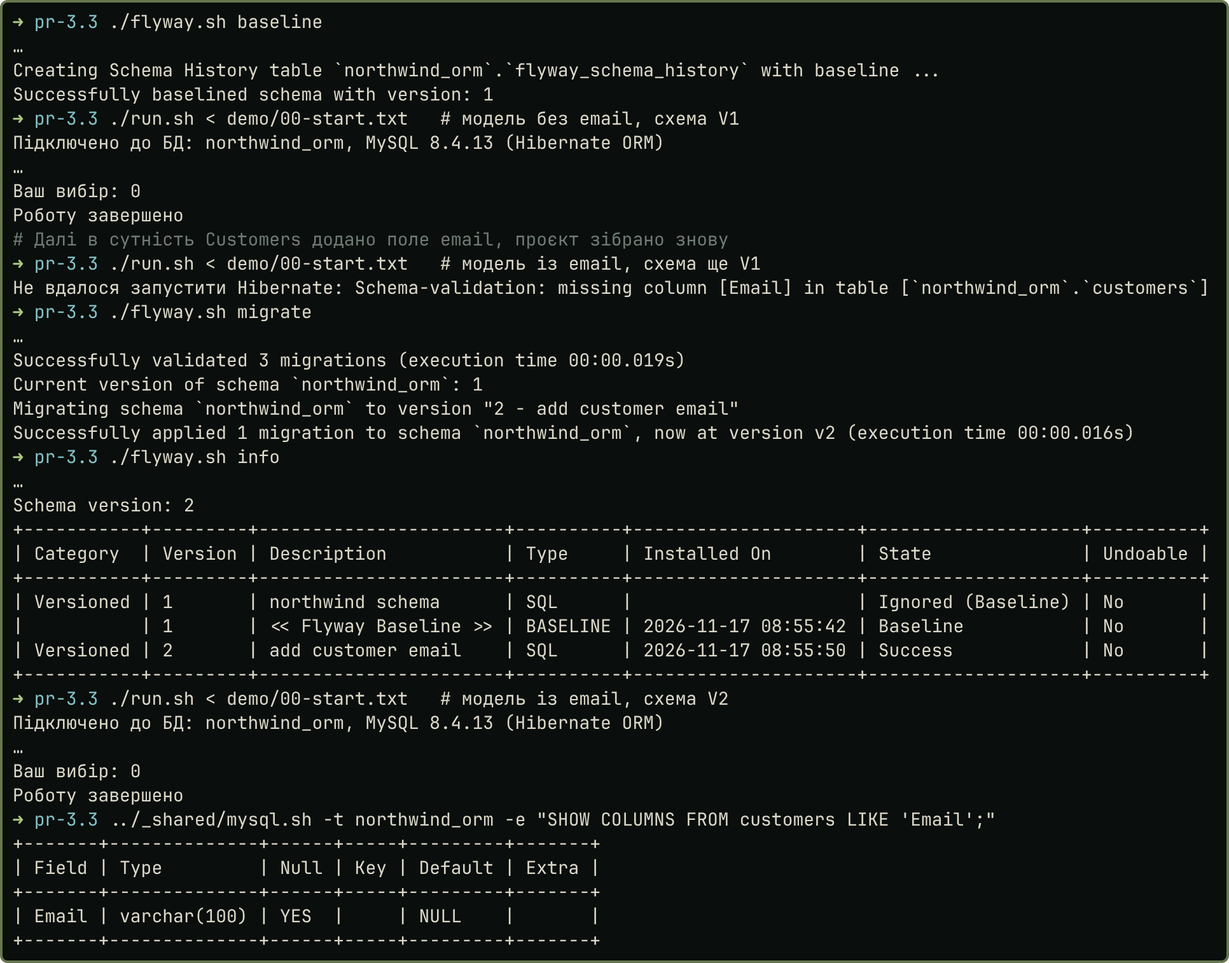
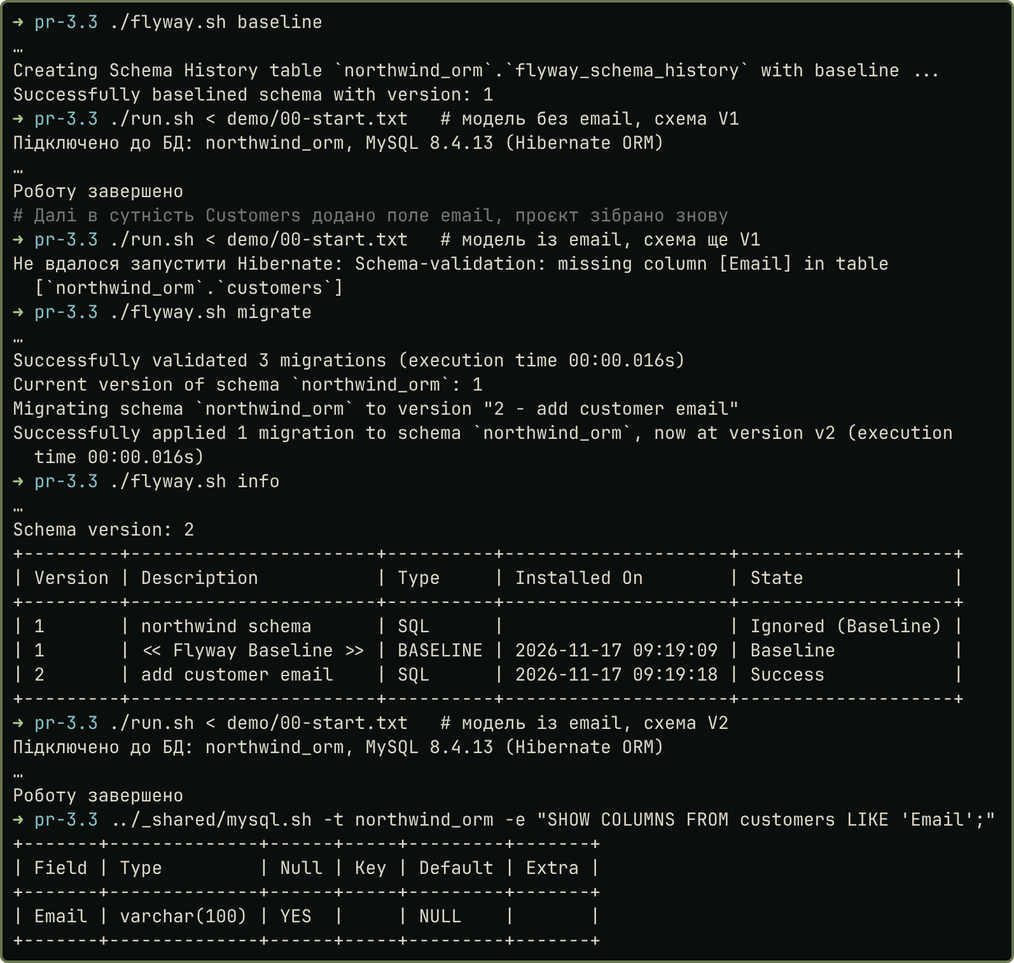
docs: number captions and improve figure readability

diff --git a/tools/report/report.css b/tools/report/report.css
@@ -60,6 +60,8 @@ figcaption { font-size: 12pt; text-align: center; margin-top: 3pt; }
 .pair img { vertical-align: top; }
 
 /* Listing and table captions: paragraph with the caption class */
+/* A plain caption paragraph directly above a table stays on the table's page. */
+p:has(+ table) { break-after: avoid; text-indent: 0; text-align: left; margin-top: 6pt; font-size: 12pt; }
 div.caption p, p.caption { text-indent: 0; font-size: 12pt; text-align: left; margin-top: 6pt; }
 
 .page-break { break-after: page; }

diff --git a/db/sr-5.3/report.md b/db/sr-5.3/report.md
@@ -22,6 +22,8 @@ city-year: "Київ – 2026"
 
 Database as a Service це керована хмарна база даних: провайдер ставить СУБД й оновлення та робить копії, а власник платить за використання й працює зі схемою та даними (джерело 1). Підключатися можна звичайним драйвером. Розподіл відповідальності:
 
+Таблиця 1 — Розподіл відповідальності в моделях DBaaS
+
 | Модель | Що надає провайдер | Що робить замовник |
 |:-----------|:------------------------------|:------------------------------------|
 | Локально | Нічого | Усе: обладнання, ОС, СУБД, оновлення, копії |
@@ -31,6 +33,8 @@ Database as a Service це керована хмарна база даних: п
 ## Аналіз документації Azure Database for MySQL
 
 Flexible Server працює на MySQL Community Edition (5.7, 8.0, 8.4). Що описує документація:
+
+Таблиця 2 — Azure Database for MySQL Flexible Server за документацією
 
 | Область | Зміст |
 |:--------------------|:--------------------------------------------------------------------------|
@@ -50,8 +54,8 @@ Flexible Server працює на MySQL Community Edition (5.7, 8.0, 8.4). Що 
 2. Відкрити доступ: правило брандмауера з адресою клієнта (public access) або сервер у VNet із застосунком у тій самій мережі чи через VPN або ExpressRoute (private access).
 3. Під адміністратором створити користувача застосунку з правами лише на `car_rental`.
 4. Завантажити `schema.sql` і `seed.sql` клієнтом mysql. У них немає `DEFINER` і `ENGINE`, тож обмеження сервісу не заважають.
-5. Взяти CA-сертифікати DigiCert Global Root G2 і Microsoft RSA Root Certificate Authority 2017, об'єднані разом. Для Java їх імпортують у сховище довіри (`keytool -import`) і задають `javax.net.ssl.trustStore` та `trustStorePassword`; документація робить це через `System.setProperty`, але властивості можна передати й ключами `-D` при запуску JVM.
-6. Задати `DB_URL`, `DB_USER`, `DB_PASSWORD`, запустити `run.sh` і перевірити шифрування командою `status` у клієнті (рядок `SSL: Cipher in use is`). Код застосунку не змінюється, бо ці значення беруться зі змінних середовища; у `run.sh` лише зникає `--network container:duikt-mysql`, а сховище довіри з п. 5 передається в JVM. Приклад Java в документації бере `sslMode=REQUIRED`; для `VERIFY_IDENTITY` у рядку має стояти саме адреса `<сервер>.mysql.database.azure.com`.
+5. Взяти CA-сертифікати DigiCert Global Root G2 і Microsoft RSA Root Certificate Authority 2017, об'єднані разом. Для Java їх імпортують у сховище довіри (`keytool -import`) і задають `javax.net.ssl.trustStore` та `trustStorePassword` (документація: `System.setProperty`; можна й ключами `-D` при запуску JVM).
+6. Задати `DB_URL`, `DB_USER`, `DB_PASSWORD`, запустити `run.sh` і перевірити шифрування командою `status` у клієнті (рядок `SSL: Cipher in use is`). Код застосунку не змінюється, бо ці значення беруться зі змінних середовища; у `run.sh` лише зникає `--network container:duikt-mysql`, а сховище довіри з п. 5 передається в JVM. Для `VERIFY_IDENTITY` у рядку має стояти саме адреса `<сервер>.mysql.database.azure.com`.
 
 ```{.small}
 # 1. сервер і база
@@ -69,15 +73,17 @@ DB_URL='jdbc:mysql://<сервер>.mysql.database.azure.com:3306/car_rental?ssl
 
 ## Перевірка TLS на локальному сервері
 
-Клієнтська частина кроків вище зводиться до `sslMode` в рядку підключення. Я перевірив її на локальному MySQL 8.4 (сертифікат створює сам контейнер): `run.sh` запущено без змін, лише з `?sslMode=REQUIRED` у `DB_URL` (рис. 1). Поки застосунок тримав з'єднання (запуск у фоні, `&`), сервер показав, що воно йде по TLS 1.3 із шифром `TLS_AES_256_GCM_SHA384`.
+Клієнтська частина кроків вище зводиться до `sslMode` у рядку підключення. Я перевірив її на локальному MySQL 8.4 (сертифікат створив контейнер): `run.sh` без змін, лише з `?sslMode=REQUIRED` у `DB_URL` (рис. 1). Поки застосунок тримав з'єднання (запуск у фоні), сервер показав TLS 1.3 і шифр `TLS_AES_256_GCM_SHA384`.
 
-![Рисунок 1 — Застосунок ПР 3.1 по TLS і шифр його з'єднання на сервері](screenshots/01-app-tls.png){width=74%}
+![Рисунок 1 — Застосунок ПР 3.1 по TLS і шифр його з'єднання на сервері](screenshots/01-app-tls.png){width=62%}
 
-На рис. 2 видно різницю з Azure. Локально `require_secure_transport` дорівнює `OFF`, тож клієнт із `--ssl-mode=DISABLED` працює без шифрування (`Ssl_cipher` порожній), а Azure вимагає TLS за замовчуванням. З `sslMode=VERIFY_IDENTITY` застосунок не підключився: від успішного запуску це відрізняється лише режимом, отже причина в перевірці сертифіката, для якої JVM потрібен довірений CA-сертифікат сервера (для Azure це сертифікати з кроку 5).
+На рис. 2 видно різницю з Azure. Локально `require_secure_transport` дорівнює `OFF`, тож клієнт із `--ssl-mode=DISABLED` працює без шифрування (`Ssl_cipher` порожній), а Azure вимагає TLS. З `sslMode=VERIFY_IDENTITY` застосунок не підключився; відмінність лише в режимі, тож причина в перевірці сертифіката: JVM потрібен CA-сертифікат сервера (для Azure з кроку 5).
 
-![Рисунок 2 — Вимога TLS на сервері, клієнт без шифрування, відмова VERIFY_IDENTITY](screenshots/02-ssl-modes.png){width=74%}
+![Рисунок 2 — Вимога TLS, клієнт без шифрування, відмова VERIFY_IDENTITY](screenshots/02-ssl-modes.png){width=58%}
 
 ## Відмінності від локального розгортання
+
+Таблиця 3 — Локальне розгортання і Azure Database for MySQL
 
 | Аспект | Локально (MySQL 8.4) | Azure Database for MySQL |
 |:----------------|:--------------------------|:-------------------------------------|
@@ -94,9 +100,9 @@ DB_URL='jdbc:mysql://<сервер>.mysql.database.azure.com:3306/car_rental?ssl
 
 ## Висновки
 
-Я розібрав поняття DBaaS і порівняв його з IaaS: у DBaaS провайдер бере на себе ОС, СУБД, оновлення й копії, а замовнику лишаються схема, дані та права. Azure Database for MySQL Flexible Server працює на MySQL Community Edition, тому застосунок підключається до нього тим самим драйвером. Підключення зводиться до сервера, брандмауера або приватної мережі, користувача з правами на `car_rental`, завантаження `schema.sql` із `seed.sql` та CA-сертифікатів, а код не змінюється. Локально `sslMode=REQUIRED` дав шифроване з'єднання (TLS 1.3), а `VERIFY_IDENTITY` без довіреного сертифіката було відхилено. Найбільше мене здивувало, що адміністратор Azure не має `SUPER`, тож дампи з `DEFINER` довелося б чистити.
+Я порівняв DBaaS з IaaS: у DBaaS провайдер бере на себе ОС, СУБД, оновлення й копії, а замовнику лишаються схема, дані та права. Flexible Server працює на MySQL Community Edition, тому застосунок підключається тим самим драйвером. Підключення зводиться до сервера з мережевим доступом, користувача з правами на `car_rental`, завантаження `schema.sql`, `seed.sql` і CA-сертифікатів; код не змінюється. Локально `sslMode=REQUIRED` дав шифроване з'єднання (TLS 1.3), а `VERIFY_IDENTITY` без довіреного сертифіката було відхилено. Найбільше здивувало, що в Azure немає `SUPER`, тож дампи з `DEFINER` чистять.
 
 ## Список джерел
 
 1. Лекції Л 3.1-3.3 (підключення до БД, DBaaS); звіти ПР № 1.1 і 3.1; скрипти <https://github.com/brizzinck/krinzhrepoduta/tree/main/db/sr-5.3>.
-2. Microsoft Learn, дата доступу 13.11.2026. Початок адреси `https://learn.microsoft.com/en-us/azure/mysql/`, далі: `flexible-server/overview`, `flexible-server/connect-java`, `security/security-tls-how-to-connect` і `flexible-server/concepts-` з одним із закінчень `networking`, `networking-public`, `networking-vnet`, `backup-restore`, `high-availability`, `read-replicas`, `limitations`, `service-tiers-storage`.
+2. Microsoft Learn, доступ 13.11.2026, `https://learn.microsoft.com/en-us/azure/mysql/` плюс `flexible-server/overview`, `flexible-server/connect-java`, `security/security-tls-how-to-connect` і `flexible-server/concepts-` із закінченнями `networking`, `networking-public`, `networking-vnet`, `backup-restore`, `high-availability`, `read-replicas`, `limitations`, `service-tiers-storage`.

diff --git a/java/pr-6/report.md b/java/pr-6/report.md
@@ -14,6 +14,7 @@ city-year: "Київ – 2026"
 
 <style>
 pre, pre code { overflow: visible !important; overflow-wrap: anywhere !important; }
+table { font-size: 10.5pt; break-inside: avoid; margin: 3pt 0; }
 </style>
 
 # 1. Мета роботи
@@ -24,11 +25,11 @@ pre, pre code { overflow: visible !important; overflow-wrap: anywhere !important
 
 Номер у списку групи 12, варіант 2 (12 mod 5): задача в трекері, поля ключ, назва, story points, ключ рівності: ключ. Три досліди в одному Maven-проєкті (Java 21, без залежностей, запуск у docker). Лямбд і Stream API немає. Повні виводи лежать у `results/`, хибні фрагменти в `compile-errors/`.
 
-![Класи досліду 1 і клас варіанта](img/classes.png){width=62%}
+![Рисунок 1 — Класи досліду 1 і клас варіанта](img/classes.png){width=50%}
 
 # 3. Дослід 1. Узагальнений контейнер
 
-`Box<T>` має методи `put(T)` і `get()`. `ObjectBox` робить те саме на `Object`. Метод `Generics.first(List<T>)` повертає перший елемент списку будь-якого типу без приведення.
+`Box<T>` має методи `put(T)` і `get()`. `ObjectBox` робить те саме на `Object`. Метод `Generics.first(List<T>)` повертає перший елемент будь-якого списку без приведення.
 
 Я поклав у `Box<Issue>` рядок. Код не компілюється:
 
@@ -53,7 +54,7 @@ Exception in thread "main" java.lang.ClassCastException: class java.lang.String 
 
 Далі метод із параметром `List<Number>` і виклик зі `List<Integer>`:
 
-```
+```{.text .small}
 > javac … compile-errors/E2_list_number/*.java
 ListNumberError.java:15: error: incompatible types: List<Integer> cannot be converted to List<Number>
         System.out.println(total(ints));
@@ -72,7 +73,7 @@ ListNumberError.java:15: error: incompatible types: List<Integer> cannot be conv
     }
 ```
 
-```
+```{.text .small}
 > java … Exp1Total
 total(List<Integer>) = 26.0
 total(List<Number>)  = 26.5
@@ -86,7 +87,7 @@ first(List<Integer>) = 5
 
 Виміряний цикл вставки (`Exp2Timing.insertMiddle`):
 
-```java
+```{.java .small}
 long t0 = System.nanoTime();
 for (int i = 0; i < OPS; i++) {
     list.add(list.size() / 2, new Issue("NEW-" + i, "Нова " + i, 3));
@@ -94,17 +95,17 @@ for (int i = 0; i < OPS; i++) {
 return (System.nanoTime() - t0) / 1_000_000;
 ```
 
-Час 1 000 операцій на 100 000 елементів, мс (вивід `Exp2Timing`, `results/exp2_timing.txt`):
+Таблиця 1 — Час 1 000 операцій на 100 000 елементів, мс (колонки: номер запуску)
 
-| Запуск | ArrayList вставка | LinkedList вставка | ArrayList contains | LinkedList contains | HashSet contains |
-|---|---|---|---|---|---|
-| 1 | 2 | 278 | 179 | 342 | 0 |
-| 2 | 1 | 236 | 234 | 321 | 0 |
-| 3 | 1 | 323 | 355 | 698 | 0 |
-| 4 | 1 | 326 | 361 | 920 | 0 |
-| 5 | 1 | 304 | 331 | 812 | 0 |
+| Операція, колекція | 1 | 2 | 3 | 4 | 5 |
+|:------------------------|---|---|---|---|---|
+| Вставка, `ArrayList` | 2 | 1 | 1 | 1 | 1 |
+| Вставка, `LinkedList` | 278 | 236 | 323 | 326 | 304 |
+| `contains`, `ArrayList` | 179 | 234 | 355 | 361 | 331 |
+| `contains`, `LinkedList` | 342 | 321 | 698 | 920 | 812 |
+| `contains`, `HashSet` | 0 | 0 | 0 | 0 | 0 |
 
-Вставка в середину `LinkedList` повільніша в сотні разів (236-326 мс проти 1-2 мс), хоча сама вставка вузла O(1). Але список зв'язаний, і щоб дійти до індексу 50 000, треба пройти до 50 000 вузлів по посиланнях. У `ArrayList` позиція відома одразу, а хвіст зсуває `System.arraycopy`. `contains` у списків лінійний (до 100 000 викликів `equals` на ключ), у `HashSet` це хеш і порівняння в одному кошику, тому 0 мс. Час `contains` для списків коливається (179-920 мс), тому порівнюю порядок величин.
+Числа взято з `results/exp2_timing.txt`. Вставка в середину `LinkedList` повільніша в сотні разів (236-326 мс проти 1-2 мс), хоча сама вставка вузла O(1). Але список зв'язаний, і щоб дійти до індексу 50 000, треба пройти до 50 000 вузлів по посиланнях. У `ArrayList` позиція відома одразу, а хвіст зсуває `System.arraycopy`. `contains` у списків лінійний (до 100 000 викликів `equals` на ключ), у `HashSet` це хеш і порівняння в одному кошику, тому 0 мс. Час `contains` для списків коливається (179-920 мс), тому порівнюю порядок величин.
 
 Видалення задач із менше ніж 3 story points із `ArrayList` в циклі for-each:
 
@@ -141,13 +142,14 @@ Exception in thread "main" java.util.ConcurrentModificationException
 
 Стани 1 і 2 це допоміжні класи з тим самим полем `key`, стан 3 це `Issue`:
 
-```java
+```{.java .small}
 static class IssueEqOnly {              // стан 2: лише equals
     final String key;
     …
     @Override
     public boolean equals(Object o) {
-        return o instanceof IssueEqOnly other && Objects.equals(key, other.key);
+        return o instanceof IssueEqOnly other
+                && Objects.equals(key, other.key);
     }
 }
 

diff --git a/java/lr-8/report.md b/java/lr-8/report.md
@@ -32,7 +32,7 @@ table { font-size: 9.5pt; }
 
 Правильній специфікації відповідає лише одна збірка. Проєкт Maven (Java 21, JUnit 6.1.3), залежність `ua.vendor:vendor:1.0` зі scope `test`; jar лежить поза репозиторієм і не комітиться. Повні логи в `results/`.
 
-![Схема запуску тестів](img/setup.png){width=40%}
+![Рисунок 1 — Схема запуску тестів](img/setup.png){width=40%}
 
 # 3. Як отримано API без коду збірок
 
@@ -66,6 +66,8 @@ mvn install:install-file -Dfile=v2-vendor.jar -DgroupId=ua.vendor -DartifactId=v
 
 Тести написано за специфікацією, значення обрано за класами еквівалентності та межами. Годинник скрізь фіксований: `Clock.fixed(instant, Europe/Kyiv)`, жодного `LocalDate.now()`. Звичайні тести використовують київський полудень, щоб дата була однозначна. Дати тестів не збігаються з датами прогонів (листопад 2026), тому збірка, що ігнорує годинник, помилилась би. Кожен тест сам створює годинник і збірку, спільного стану між тестами немає, тому порядок запуску на результат не впливає (перевірено в розділі 6).
 
+Таблиця 1 — Групи тестів, значення і призначення
+
 | Група тестів | Значення | Навіщо |
 |------------|------------------------------|--------------------|
 | Виконана задача | дедлайн вчора, тиждень тому, кілька місяців тому | `done` сильніший за прострочення |
@@ -76,7 +78,7 @@ mvn install:install-file -Dfile=v2-vendor.jar -DgroupId=ua.vendor -DartifactId=v
 | Дедлайн відсутній | `null` з `done=false` і `done=true` | `IllegalArgumentException` |
 | Київ і зсув від UTC | див. таблицю нижче | «сьогодні» за київським часом |
 
-Моменти часу, коли київська дата відрізняється від дати в UTC або залежить від переходу на зимовий час (25.10.2026):
+Таблиця 2 — Київська дата проти UTC і перехід на зимовий час (25.10.2026)
 
 | Київ | UTC | Дедлайн | Очікується |
 |--------------------|-----------|--------|--------------------|
@@ -91,7 +93,7 @@ mvn install:install-file -Dfile=v2-vendor.jar -DgroupId=ua.vendor -DartifactId=v
 
 Збірку для кожного тесту дає один метод; номер збірки береться з системної властивості. `policyOn` будує годинник на київський полудень заданої дати:
 
-```java
+```{.java .small}
     private static OverduePolicy policy(Clock clock) {
         return Vendor.build(Integer.getInteger("build", 1), clock);
     }
@@ -104,7 +106,7 @@ mvn install:install-file -Dfile=v2-vendor.jar -DgroupId=ua.vendor -DartifactId=v
 
 Робочі дні перевіряє параметризований тест (мітка рядка: день дедлайну і день «сьогодні»; усього 19 рядків):
 
-```java
+```{.java .small}
     @ParameterizedTest(name = "[{index}] {0}")
     @CsvSource({
             "середа - четвер: 1 робочий день, 2026-06-03, 2026-06-04, OVERDUE",
@@ -113,7 +115,8 @@ mvn install:install-file -Dfile=v2-vendor.jar -DgroupId=ua.vendor -DartifactId=v
             "перехід через рік - 2 робочі дні, 2025-12-31, 2026-01-02, ESCALATE",
             …
     })
-    void overdueByWorkingDays(String label, LocalDate deadline, LocalDate today, IssueStatus expected) {
+    void overdueByWorkingDays(String label, LocalDate deadline,
+                              LocalDate today, IssueStatus expected) {
         assertEquals(expected, policyOn(today.toString()).check(deadline, false));
     }
 ```
@@ -123,6 +126,8 @@ mvn install:install-file -Dfile=v2-vendor.jar -DgroupId=ua.vendor -DartifactId=v
 # 6. Результати шести збірок
 
 `mvn test -Dbuild=N` для N = 1…6 (`results/build-N.txt`, зведення `results/summary.txt`). Номери в дужках це номери рядків параметризованих тестів.
+
+Таблиця 3 — Результати шести збірок
 
 | Збірка | Тестів | Впало | Тести, що впали |
 |------|------|------|-------------------------------------|
@@ -149,6 +154,8 @@ org.opentest4j.AssertionFailedError: expected: <OVERDUE> but was: <ESCALATE>
 # 7. Звіти про дефекти
 
 Усі дати з 2026 року. Опис причин це припущення за поведінкою: код збірок не переглядався.
+
+Таблиця 4 — Звіти про дефекти
 
 | № | Тест | Вхідні дані | Мало бути | Було | Порушене правило |
 |---|------------------------|----------------|------------|------------|--------------------|

diff --git a/db/pr-3.3/report.md b/db/pr-3.3/report.md
@@ -24,7 +24,7 @@ city-year: "Київ – 2026"
 Таблиця 1 — Відповідність EF Core і Hibernate
 
 | EF Core (.NET) | Hibernate (Java) |
-|:---------------------|:----------------------------------------|
+|:------------------------------------------|:--------------------------------------------|
 | `DbContext` | `Session` (її створює `SessionFactory`) |
 | `DbSet<T>`, клас сутності | клас з `@Entity`, запит `from T` у `Session` |
 | навігаційна властивість `ICollection<T>` | поле `Set<T>` з `@OneToMany` |
@@ -53,7 +53,7 @@ public class Products implements java.io.Serializable {
 }
 ```
 
-![Рисунок 2 — Генерація сутностей](screenshots/02-scaffold.png){width=75%}
+![Рисунок 2 — Генерація сутностей: імена класів і файли з ручними правками](screenshots/02-scaffold.png){width=85%}
 
 **Міграції.** Hibernate не веде версій міграцій, на відміну від `Add-Migration`, тому я взяв Flyway 11.20 у docker. `V1__northwind_schema.sql` це схема 13 таблиць, знята `mysqldump --no-data`: на існуючій базі вона стає базовою версією (`baseline`), а на порожній створює всі 13 таблиць, тобто це повноцінна перша міграція. Зміна моделі: клієнт отримує поле `email`. Спершу сутність `Customers` без `email`, потім із ним: Hibernate при запуску не знаходить стовпець `Email` і зупиняється, `validate` це доводить. Друга міграція `V2__add_customer_email.sql` виконується командою `migrate`, після неї додаток запускається. На рис. 3 зверху вниз: базова версія V1 і запуск зі старою моделлю, помилка `validate` після зміни моделі, `migrate`, запуск зі стовпцем `Email`.
 
@@ -62,7 +62,7 @@ public class Products implements java.io.Serializable {
 ALTER TABLE customers ADD COLUMN Email VARCHAR(100) NULL;
 ```
 
-![Рисунок 3 — Міграції: база V1, помилка `validate`, `migrate`, запуск (банер Flyway і меню додатка скорочено до «…»)](screenshots/03-migrations.png){width=82%}
+![Рисунок 3 — Міграції: база V1, помилка `validate`, `migrate`, запуск (банер Flyway і меню додатка скорочено до «…», у таблиці `info` немає колонок Category і Undoable)](screenshots/03-migrations.png){width=85%}
 
 **Запити 3-6** з ПР 1.2 (меню 3-6, рис. 4) записані в JPQL над сутностями, а не над таблицями:
 

diff --git a/db/sr-5.2/report.md b/db/sr-5.2/report.md
@@ -22,6 +22,8 @@ city-year: "Київ – 2026"
 
 ## Інструменти MS SQL і їх відповідники в MySQL
 
+Таблиця 1 — Інструменти MS SQL Server і їх відповідники в MySQL 8.4
+
 | MS SQL Server | Що робить | MySQL 8.4 |
 |:--------------------|:-------------------------|:----------------------------|
 | Profiler (слайд 10 лекції) | трасування запитів, подій, блокувань у реальному часі | загальний журнал `general_log` (усі запити), повільний журнал `slow_query_log`, `mysql.slow_log` |
@@ -33,6 +35,8 @@ city-year: "Київ – 2026"
 Performance Schema, за документацією, стежить за виконанням сервера на низькому рівні й зберігає події в таблицях, які читаються звичайним `SELECT`; схема `sys` спрощує доступ до них. Після аварії InnoDB повторює з redo log зміни, які не встигли потрапити у файли даних, а незавершені транзакції відкочує через undo log. Двійковий журнал призначений для реплікації та відновлення на момент часу і не містить `SELECT`.
 
 ## Яку інформацію дають
+
+Таблиця 2 — Яку інформацію дає кожен інструмент
 
 | Що дивимось | Інструмент MySQL | Приклад даних |
 |:------------|:----------------------|:------------------------------------------|

diff --git a/java/lr-7/report.md b/java/lr-7/report.md
@@ -24,7 +24,7 @@ pre, pre code { overflow: visible !important; overflow-wrap: anywhere !important
 
 Номер у списку групи 12, варіант 2 (12 mod 5): трекер задач, файл `v2_issues.txt` з рядками `ключ;статус;виконавець;story_points` (UTF-8, перший рядок заголовок, 40 рядків даних). Категорія це статус, підсумок у категорії це сума story points, показник для топ-5 це story points. Програма `java -jar report.jar <файл> <ключ>` друкує три частини: підсумки за статусами (за алфавітом), п'ять задач з найбільшими story points (за рівних оцінок за ключем), результат пошуку за ключем. Maven, Java 21, без залежностей, запуск у docker. Повні виводи в `results/`.
 
-![Конвеєр обробки даних](img/pipeline.png){width=70%}
+![Рисунок 1 — Конвеєр обробки даних](img/pipeline.png){width=70%}
 
 # 3. Рядки в об'єкти і усунення повторів
 

diff --git a/java/lr-6/report.md b/java/lr-6/report.md
@@ -28,7 +28,7 @@ pre, pre code { overflow: visible !important; overflow-wrap: anywhere !important
 
 Одне сховище `Storage<K, T extends Keyed<K>>` обслуговує обидва типи записів. Інтерфейс `Keyed<K>` має один метод `key()`, його реалізують записи `Issue` і `Member` (Java record). Рядки перетворюють `IssueParser` і `MemberParser` через спільний інтерфейс `LineParser<T>`, а `Loader.load` читає файл і кладе записи у сховище. Критерії сортування лежать в окремих класах `ByStoryPoints` і `ByClosedCount`.
 
-![Класи сховища](img/storage.png){width=90%}
+![Рисунок 1 — Класи сховища](img/storage.png){width=90%}
 
 Клієнтський код (`Main`) не має приведень типу: `Storage<String, Issue>` повертає `Issue`, `Storage<String, Member>` повертає `Member` (`grep -rnE '\((Issue|Member)\)' src` порожній, `results/check.txt`).
 

diff --git a/java/pr-8/report.md b/java/pr-8/report.md
@@ -24,7 +24,7 @@ pre, pre code { overflow: visible !important; overflow-wrap: anywhere !important
 
 Номер у списку групи 12, варіант 2 (12 mod 5): `Sprint.canAdd(points, current)`: оцінка задачі від 1 до 13, разом у спринті не більше 40 SP. Межі: оцінки 0, 1, 13, 14, сума 40 і 41. Сервіс `IssueService`: поточне навантаження виконавця береться з `TeamDirectory`, повідомлення йде в `ChatNotifier`. Maven, Java 21, JUnit 6.1.3 (через `junit-bom`), `mockito-junit-jupiter` 5.24.0, Surefire 3.6.1, запуск у docker. Повні логи кожного кроку в `results/`.
 
-![Клас, сервіс і залежності](img/classes.png){width=76%}
+![Рисунок 1 — Клас, сервіс і залежності](img/classes.png){width=76%}
 
 # 3. Клас і правило
 

diff --git a/db/sr-5.4/report.md b/db/sr-5.4/report.md
@@ -66,6 +66,8 @@ session.createQuery("""
 
 Кількість рядків не можна порівнювати прямо: ПР 3.1 має CRUD для 10 таблиць і 3 запити, ПР 3.2 CRUD для 3 таблиць і 3 запити, ПР 3.3 лише читання й 4 запити. Тому в таблиці лише те, що видно в коді (рис. 1).
 
+Таблиця 1 — Порівняння ПР 3.1, 3.2 і 3.3
+
 | Критерій | JDBC (ПР 3.1) | Jdbi (ПР 3.2) | Hibernate (ПР 3.3) |
 |:----------------|:----------------------|:----------------------|:----------------------|
 | Рядків доступу до даних, написано вручну (без спільного `Printer`) | 218 | 217 | 181 |

diff --git a/digital_tech/tz/report.md b/digital_tech/tz/report.md
@@ -223,7 +223,7 @@
 
 ![Рисунок 1 — Схема структурна варіантів використання](img/usecase.png){width=60%}
 
-![Рисунок 2 — Схема структурна програмного забезпечення (компоненти)](img/components.png){width=90%}
+![Рисунок 2 — Схема структурна програмного забезпечення (компоненти)](img/components.png){width=66%}
 
 ## 5.2 Спеціальні вимоги до програмної документації
 
